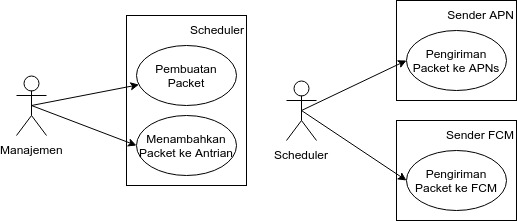
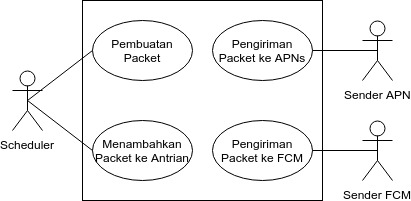
Benerin diagram usecase, template bab 5

diff --git a/buku/bab5/bab5.tex b/buku/bab5/bab5.tex
@@ -1,2 +1,129 @@
-\chapter{UJI COBA DAN EVALUASI}
-Pada bab ini akan dijelaskan tentang uji coba dan evaluasi dari implementasi sistem yang telah dilakukan pada bab 4.
+\chapter{PENGUJIAN DAN EVALUASI}
+\par Bab ini membahas pengujian dan evaluasi terhadap perangkat lunak yang telah diimplementasikan pada bab 3.
+
+\section{Lingkungan Pengujian}
+\par Lingkungan yang digunakan untuk menguji tugas akhir ini memiliki spesifikasi perangkat keras dan lunak yang ditunjukkan pada tabel \ref{5:tabel_spesifikasi_server}, \ref{5:tabel_spesifikasi_perangkat_android}, dan \ref{5:tabel_spesifikasi_perangkat_ios}.
+\begin{longtable}{|p{2.5cm}|p{6.5cm}|}
+    \hline
+    \textbf{Jenis} & \textbf{Spesifikasi} & \hline
+    CPU & - & \hline
+    Memory & - & \hline
+    Sistem Operasi & - & \hline
+    \caption{Spesifikasi Server}
+    \label{5:tabel_spesifikasi_server}
+\end{longtable}
+\begin{longtable}{|p{2.5cm}|p{6.5cm}|}
+    \hline
+    \textbf{Jenis} & \textbf{Spesifikasi} & \hline
+    CPU & Snapdragon 636 & \hline
+    Memory & 3 GB & \hline
+    Sistem Operasi & Android 9 (Pie) & \hline
+    \caption{Spesifikasi Perangkat Android}
+    \label{5:tabel_spesifikasi_perangkat_android}
+\end{longtable}
+\begin{longtable}{|p{2.5cm}|p{6.5cm}|}
+    \hline
+    \textbf{Jenis} & \textbf{Spesifikasi} & \hline
+    CPU & Apple A10 Fusion & \hline
+    Memory & 3 GB & \hline
+    Sistem Operasi & iOS 12 & \hline
+    \caption{Spesifikasi Perangkat iOS}
+    \label{5:tabel_spesifikasi_perangkat_ios}
+\end{longtable}
+
+\section{Pengujian Fungsionalitas}
+
+\subsection{Pengujian Pembuatan Packet}
+\begin{longtable}{|p{2.5cm}|p{6.5cm}|}
+    \hline
+    \textbf{No. Pengujian} & UJ01 & \hline
+    \textbf{Kode Kasus Penggunaan} & UC01 & \hline
+    \textbf{Nama} & Pengujian Pembuatan Packet & \hline
+    \textbf{Aktor} & Scheduler & \hline
+    \textbf{Tujuan Pengujian} & Menguji fungsionalitas untuk pembuatan packet. & \hline
+    \textbf{Kondisi Awal} & - & \hline
+    \textbf{Data Uji} & - & \hline
+    \textbf{Langkah Pengujian} & - & \hline
+    \textbf{Hasil yang diharapkan} & - & \hline
+    \textbf{Hasil yang didapatkan} & - & \hline
+    \textbf{Hasil Pengujian} & - & \hline
+    \textbf{Kondisi Akhir} & - & \hline
+    \caption{Pengujian Pembuatan Packet}
+    \label{5:tabel_pengujian_pembuatan_packet}
+\end{longtable}
+
+\subsection{Pengujian Menambahkan Packet ke Antrian}
+\begin{longtable}{|p{2.5cm}|p{6.5cm}|}
+    \hline
+    \textbf{No. Pengujian} & UJ02 & \hline
+    \textbf{Kode Kasus Penggunaan} & UC02 & \hline
+    \textbf{Nama} & Pengujian Menambahkan Packet ke Antrian & \hline
+    \textbf{Aktor} & Scheduler & \hline
+    \textbf{Tujuan Pengujian} & - & \hline
+    \textbf{Skenario Pengujian} & - & \hline
+    \textbf{Kondisi Awal} & - & \hline
+    \textbf{Data Uji} & - & \hline
+    \textbf{Langkah Pengujian} & - & \hline
+    \textbf{Hasil yang diharapkan} & - & \hline
+    \textbf{Hasil yang didapatkan} & - & \hline
+    \textbf{Hasil Pengujian} & - & \hline
+    \textbf{Kondisi Akhir} & - & \hline
+    \caption{Pengujian Pembuatan Packet}
+    \label{5:tabel_pengujian_menambahkan_packet_ke_antrian}
+\end{longtable}
+
+\subsection{Pengujian Pengiriman Packet ke APNs}
+\begin{longtable}{|p{2.5cm}|p{6.5cm}|}
+    \hline
+    \textbf{No. Pengujian} & UJ03 & \hline
+    \textbf{Kode Kasus Penggunaan} & UC03 & \hline
+    \textbf{Nama} & Pengujian Pengiriman Packet ke APNs & \hline
+    \textbf{Aktor} & Sender APN & \hline
+    \textbf{Tujuan Pengujian} & - & \hline
+    \textbf{Skenario Pengujian} & - & \hline
+    \textbf{Kondisi Awal} & - & \hline
+    \textbf{Data Uji} & - & \hline
+    \textbf{Langkah Pengujian} & - & \hline
+    \textbf{Hasil yang diharapkan} & - & \hline
+    \textbf{Hasil yang didapatkan} & - & \hline
+    \textbf{Hasil Pengujian} & - & \hline
+    \textbf{Kondisi Akhir} & - & \hline
+    \caption{Pengujian Pembuatan Packet}
+    \label{5:tabel_pengujian_pengiriman_packet_ke_apns}
+\end{longtable}
+
+\subsection{Pengujian Pengiriman Packet ke FCM}
+\begin{longtable}{|p{2.5cm}|p{6.5cm}|}
+    \hline
+    \textbf{No. Pengujian} & UJ04 & \hline
+    \textbf{Kode Kasus Penggunaan} & UC04 & \hline
+    \textbf{Nama} & Pengujian Pengiriman Packet ke FCM & \hline
+    \textbf{Aktor} & Sender FCM & \hline
+    \textbf{Tujuan Pengujian} & - & \hline
+    \textbf{Skenario Pengujian} & - & \hline
+    \textbf{Kondisi Awal} & - & \hline
+    \textbf{Data Uji} & - & \hline
+    \textbf{Langkah Pengujian} & - & \hline
+    \textbf{Hasil yang diharapkan} & - & \hline
+    \textbf{Hasil yang didapatkan} & - & \hline
+    \textbf{Hasil Pengujian} & - & \hline
+    \textbf{Kondisi Akhir} & - & \hline
+    \caption{Pengujian Pembuatan Packet}
+    \label{5:tabel_pengujian_pengiriman_packet_ke_fcm}
+\end{longtable}
+
+\section{Pengujian Performa}
+
+\subsection{Pengujian Pengiriman Notifikasi ke 1.000 Perangkat}
+
+\subsection{Pengujian Pengiriman Notifikasi ke 10.000 Perangkat}
+
+\subsection{Pengujian Pengiriman Notifikasi ke 100.000 Perangkat}
+
+\subsection{Pengujian Pengiriman Notifikasi ke 1.000.000 Perangkat}
+
+\section{Evaluasi Hasil Pengujian}
+
+\subsection{Evaluasi Pengujian Fungsionalitas}
+
+\subsection{Evaluasi Pengujian Performa}

diff --git a/buku/bab3/bab3.tex b/buku/bab3/bab3.tex
@@ -34,7 +34,7 @@ Subbab ini berisi kebutuhan perangkat lunak yang direpresentasikan dalam bentuk 
 \end{longtable}
 
 \subsubsection{Kebutuhan Fungsional}
-\begin{longtable}{|p{2.5cm}|p{2cm}|p{4.5cm}|}
+\begin{longtable}{|p{0.6cm}|p{3cm}|p{4.5cm}|}
     \hline
     \textbf{No.} & \textbf{Kebutuhan Fungsional} & \textbf{Deskripsi} & \hline
     F01 & Mengirim notifikasi ke beberapa akun & Sistem dapat mengirim notifikasi ke perangkat Android, Web, dan iOS yang dimiliki oleh akun tertentu. & \hline
@@ -58,21 +58,10 @@ Subbab ini berisi kebutuhan perangkat lunak yang direpresentasikan dalam bentuk 
 \par Subbab ini menjelaskan kasus penggunaan perangkat lunak secara rinci. Kasus penggunaan dibuat berdasarkan hasil analisis yang pada subbab sebelumnya.
 \par Diagram kasus penggunaan untuk setiap modul (\textit{Scheduler}, \textit{Sender APN}, dan \textit{Sender FCM}) aplikasi \textit{push notification} terpusat dapat dilihat pada diagram~\ref{diagram_kasus_penggunaan}.
 \begin{figure}[H]
-    \centering\includegraphics[width=1\textwidth]{bab3/figures/diagram_kasus_penggunaan.jpg}
+    \centering\includegraphics[width=0.8\textwidth]{bab3/figures/diagram_kasus_penggunaan.jpg}
     \caption{Diagram Kasus Penggunaan}
     \label{diagram_kasus_penggunaan}
 \end{figure}
-Penjelasan lebih lengkap dapat dilihat pada tabel~\ref{tabel_deskripsi_kasus_penggunaan_sistem}.
-\begin{longtable}{|p{1cm}|p{5.5cm}|p{2cm}|}
-    \hline
-    \textbf{Kode} & \textbf{Nama Kasus Penggunaan} & \textbf{Aktor} & \hline
-    UC01 & Pembuatan Packet & Scheduler & \hline
-    UC02 & Menambahkan Packet ke Antrian & Scheduler & \hline
-    UC03 & Pengiriman Packet ke APNs & Sender APN & \hline
-    UC04 & Pengiriman Packet ke FCM & Sender FCM & \hline
-    \caption{Deskripsi Kasus Penggunaan Sistem}
-    \label{tabel_deskripsi_kasus_penggunaan_sistem}
-\end{longtable}
 
 % template tabel deskripsi kasus penggunaan
 \newcommand\tableUcDesc[7] {
@@ -187,9 +176,7 @@ arsitektur pengiriman notifikasi yang dapat dilihat pada gambar~\ref{arsitektur_
 \end{figure}
 
 \subsection{Perancangan Basis Data}
-\par Subbab ini membahas bagaimana rancangan basis data yang digunakan pada aplikasi \textit{push notification}
-terpusat.
-Basis data yang digunakan adalah SQL Server 2012.
+\par Subbab ini membahas bagaimana rancangan basis data yang digunakan pada aplikasi \textit{push notification} terpusat. Basis data yang digunakan adalah SQL Server 2012.
 
 \subsubsection{Tabel User (user\_account)}
 \par Tabel ini digunakan untuk menyimpan data pengguna aplikasi yang ada di Institut Teknologi Sepuluh Nopember. Detail atribut dapat dilihat pada tabel berikut.

diff --git a/buku/bab4/bab4.tex b/buku/bab4/bab4.tex
@@ -1,12 +1,11 @@
 \chapter {IMPLEMENTASI}
 \par Bab ini membahas implementasi dari rancangan sistem yang ada pada bab 3. Bahasa pemrograman yang digunakan untuk implementasi aplikasi \textit{push notification}.
 
-\section{Lingkungan Implementasi Perangkat Lunak}
-\par Lingkungan implementasi sistem yang digunakan untuk mengembangkan tugas akhir ini memiliki spesifikasi perangkat keras dan lunak seperti ditampilkan pada tabel~\ref{tabel_spesifikasi_server}, tabel~\ref{tabel_spesifikasi_perangkat_android}, dan tabel~\ref{tabel_spesifikasi_perangkat_ios}.
+\section{Lingkungan Implementasi}
+\par Lingkungan implementasi yang digunakan untuk mengembangkan tugas akhir ini memiliki spesifikasi perangkat keras dan lunak seperti ditampilkan pada tabel~\ref{tabel_spesifikasi_server}, tabel~\ref{tabel_spesifikasi_perangkat_android}, dan tabel~\ref{tabel_spesifikasi_perangkat_ios}.
 \begin{longtable}{|p{2.5cm}|p{6.5cm}|}
     \hline
     \textbf{Jenis} & \textbf{Spesifikasi} & \hline
-    Nama & Asus Vivobook X505ZA & \hline
     CPU & AMD Ryzen 5 2500U & \hline
     Memory & 12 GB & \hline
     Sistem Operasi & Ubuntu 19.04 & \hline
@@ -22,7 +21,6 @@
 \begin{longtable}{|p{2.5cm}|p{6.5cm}|}
     \hline
     \textbf{Jenis} & \textbf{Spesifikasi} & \hline
-    Nama & Asus Zenfone Max Pro M1 & \hline
     CPU & Snapdragon 636 & \hline
     Memory & 3 GB & \hline
     Sistem Operasi & Android 9 (Pie) & \hline
@@ -32,7 +30,6 @@
 \begin{longtable}{|p{2.5cm}|p{6.5cm}|}
     \hline
     \textbf{Jenis} & \textbf{Spesifikasi} & \hline
-    Nama & iPhone 7 Plus & \hline
     CPU & Apple A10 Fusion & \hline
     Memory & 3 GB & \hline
     Sistem Operasi & iOS 12 & \hline
